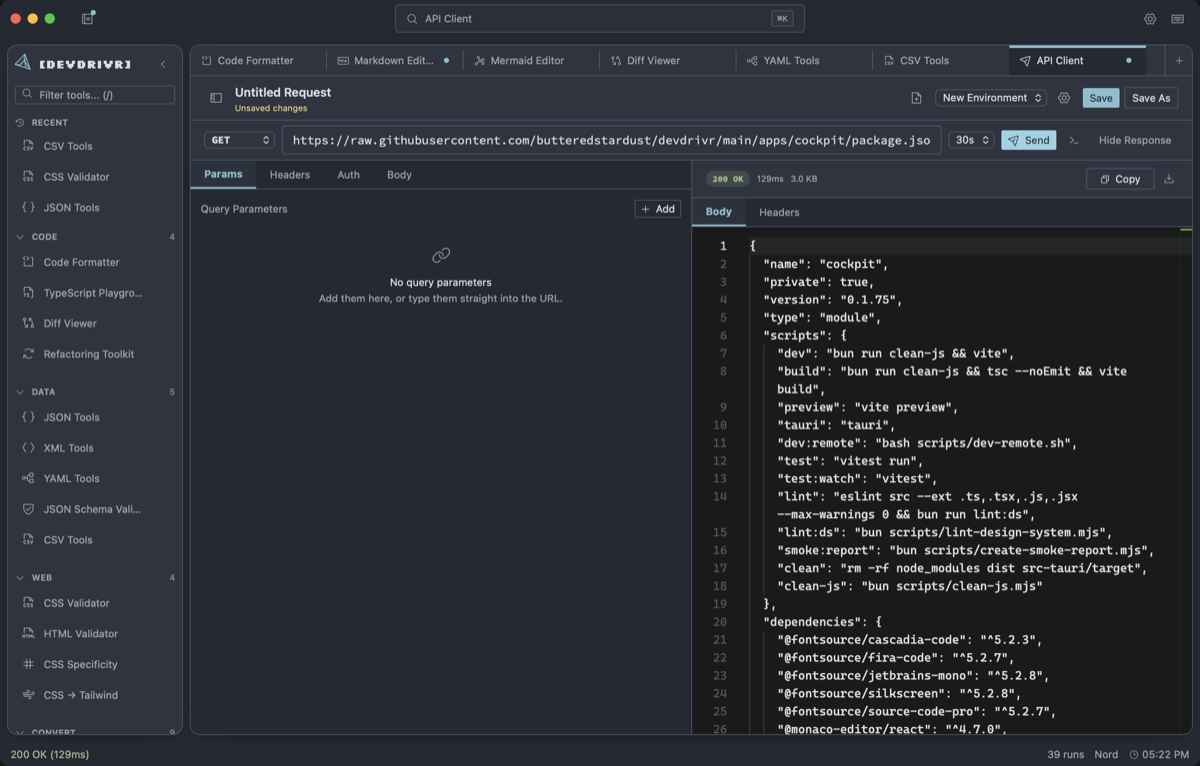
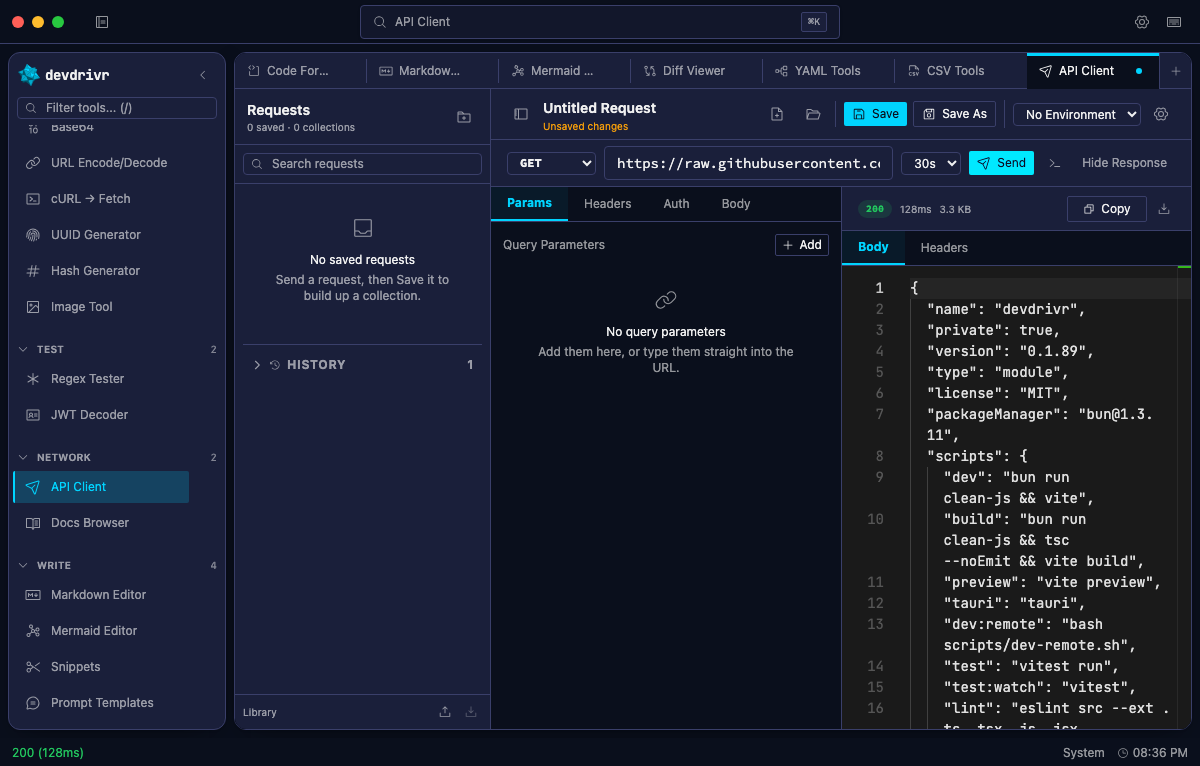
docs: regenerate the README screenshots from the current app [skip ci]
All seven were stale — old branding, old layouts, and an API Client shot
pointing at apps/cockpit/package.json, a path the monorepo flattening
deleted. Rather than re-shoot them by hand, `bun run screenshots` drives
the browser harness and produces the whole set from one run.

Getting there needed one harness change: the stub answered
`plugin:http|fetch` with null, so the API Client could only photograph an
error. It now forwards the four-call fetch protocol to the page's own
`fetch`. That is CORS-bound where the real app is not, which is a real
limitation and is written down in both the stub and BROWSER_HARNESS.md.

The remote harness was the other candidate for that one shot, and is why
it isn't: it serves the real database, so the screenshot would carry
whichever theme and history the machine running it happened to have.

diff --git a/scripts/tauri-browser-stub.js b/scripts/tauri-browser-stub.js
@@ -9,7 +9,8 @@
  * Scope: enough to *render* the UI for DOM-level debugging (selection, layout,
  * re-render behaviour). Persistence is faked — every SQL read returns empty, so
  * stores start blank and nothing survives a reload. Not a substitute for
- * running the real app when testing anything that touches disk or the DB.
+ * running the real app when testing anything that touches disk or the DB. HTTP is the exception: it
+ * is forwarded to the page's own `fetch`, so the API Client works against CORS-enabled endpoints.
  *
  * `bun run dev` installs this automatically (see scripts/vite-plugin-tauri-stub.js), so
  * opening http://localhost:1420 in any browser just works. Scripted harnesses that
@@ -34,6 +35,13 @@ export function installTauriStub() {
 
   let isFullscreen = false
   let isMaximized = false
+
+  // `plugin:http|fetch` is a four-call protocol — open, send, then read the body in chunks — and the
+  // JS plugin assembles a real `Response` from the pieces. These hold the in-flight halves between
+  // calls, keyed by the resource id the plugin passes back to us.
+  const httpRequests = new Map()
+  const httpBodies = new Map()
+  let httpRid = 0
 
   const invoke = async (cmd, args) => {
     if (cmd === 'plugin:sql|load') return 'sqlite:cockpit.db'
@@ -99,7 +107,51 @@ export function installTauriStub() {
     ) {
       return null
     }
-    // Everything else — file dialogs, fs, http — has no browser equivalent here.
+    // HTTP is the one plugin a browser can genuinely provide, by handing the request to the page's
+    // own `fetch`. The catch is CORS: the real app goes through Rust and is not subject to it, so a
+    // request that works in the app can fail here with an opaque `TypeError`. Fine for endpoints
+    // that send `Access-Control-Allow-Origin`, not a way to test arbitrary APIs — for that, use the
+    // remote-UI harness, which runs the real Rust stack (documentation/HARNESSES.md).
+    if (cmd === 'plugin:http|fetch') {
+      const { method, url, headers, data } = args?.clientConfig ?? {}
+      const rid = ++httpRid
+      httpRequests.set(
+        rid,
+        fetch(url, {
+          method,
+          headers,
+          body: data ? new Uint8Array(data) : undefined,
+        })
+      )
+      return rid
+    }
+    if (cmd === 'plugin:http|fetch_send') {
+      const response = await httpRequests.get(args.rid)
+      httpRequests.delete(args.rid)
+      httpBodies.set(args.rid, new Uint8Array(await response.arrayBuffer()))
+      return {
+        status: response.status,
+        statusText: response.statusText,
+        url: response.url,
+        headers: Array.from(response.headers.entries()),
+        rid: args.rid,
+      }
+    }
+    if (cmd === 'plugin:http|fetch_read_body') {
+      // The transport appends a trailing flag byte to every chunk: 0 means "more to come", 1 means
+      // end of stream. The whole body goes out in one chunk here — there is nothing to stream from,
+      // since `arrayBuffer()` has already buffered it.
+      const body = httpBodies.get(args.rid)
+      if (!body) return [1]
+      httpBodies.delete(args.rid)
+      return [...body, 0]
+    }
+    if (cmd === 'plugin:http|fetch_cancel' || cmd === 'plugin:http|fetch_cancel_body') {
+      httpRequests.delete(args?.rid)
+      httpBodies.delete(args?.rid)
+      return null
+    }
+    // Everything else — file dialogs and fs — has no browser equivalent here.
     // Resolving silently makes those look like they worked, so say so instead.
     console.warn(`[tauri-stub] unhandled command "${cmd}" — resolved as null. Use the real app.`)
     return null

diff --git a/documentation/BROWSER_HARNESS.md b/documentation/BROWSER_HARNESS.md
@@ -16,6 +16,8 @@ served by `bun run dev`, driven from Chromium.
 - Scroll/resize/layout bugs, measured rather than reasoned about
 - "It re-renders but I can't see why" — DOM mutation forensics
 - Anything you were about to explain with a theory instead of evidence
+- Regenerating the README screenshots: `bun run dev`, then `bun run screenshots` (see
+  `scripts/capture-screenshots.mjs`, which is also the best worked example of driving this harness)
 
 Not for: window or menu behaviour — that is [NATIVE_UI_HARNESS.md](NATIVE_UI_HARNESS.md).
 
@@ -53,11 +55,15 @@ await page.goto('http://localhost:1420')
 Every SQL read returns empty, so stores start blank and nothing persists across a reload. Seed
 state through the UI.
 
-Commands with no browser equivalent — file dialogs, `fs`, `http` — resolve to `null` and log a
-`[tauri-stub] unhandled command` warning. Two of those on boot (`plugin:http|fetch*`, the update
-check) are expected. A warning naming a command your feature depends on means you are testing a
-stub, not the app — switch to [REMOTE_UI_HARNESS.md](REMOTE_UI_HARNESS.md), which answers those
-commands for real without giving up the browser.
+`plugin:http|fetch` is forwarded to the page's own `fetch`, so the API Client really does issue
+requests here — subject to CORS, which the real app is not, since it goes through Rust. An endpoint
+that sends `Access-Control-Allow-Origin` works; anything else fails with an opaque `TypeError` that
+looks like the app's bug and isn't.
+
+Commands with no browser equivalent — file dialogs, `fs` — resolve to `null` and log a
+`[tauri-stub] unhandled command` warning. A warning naming a command your feature depends on means
+you are testing a stub, not the app — switch to [REMOTE_UI_HARNESS.md](REMOTE_UI_HARNESS.md), which
+answers those commands for real without giving up the browser.
 
 ## Gotchas found the hard way
 
